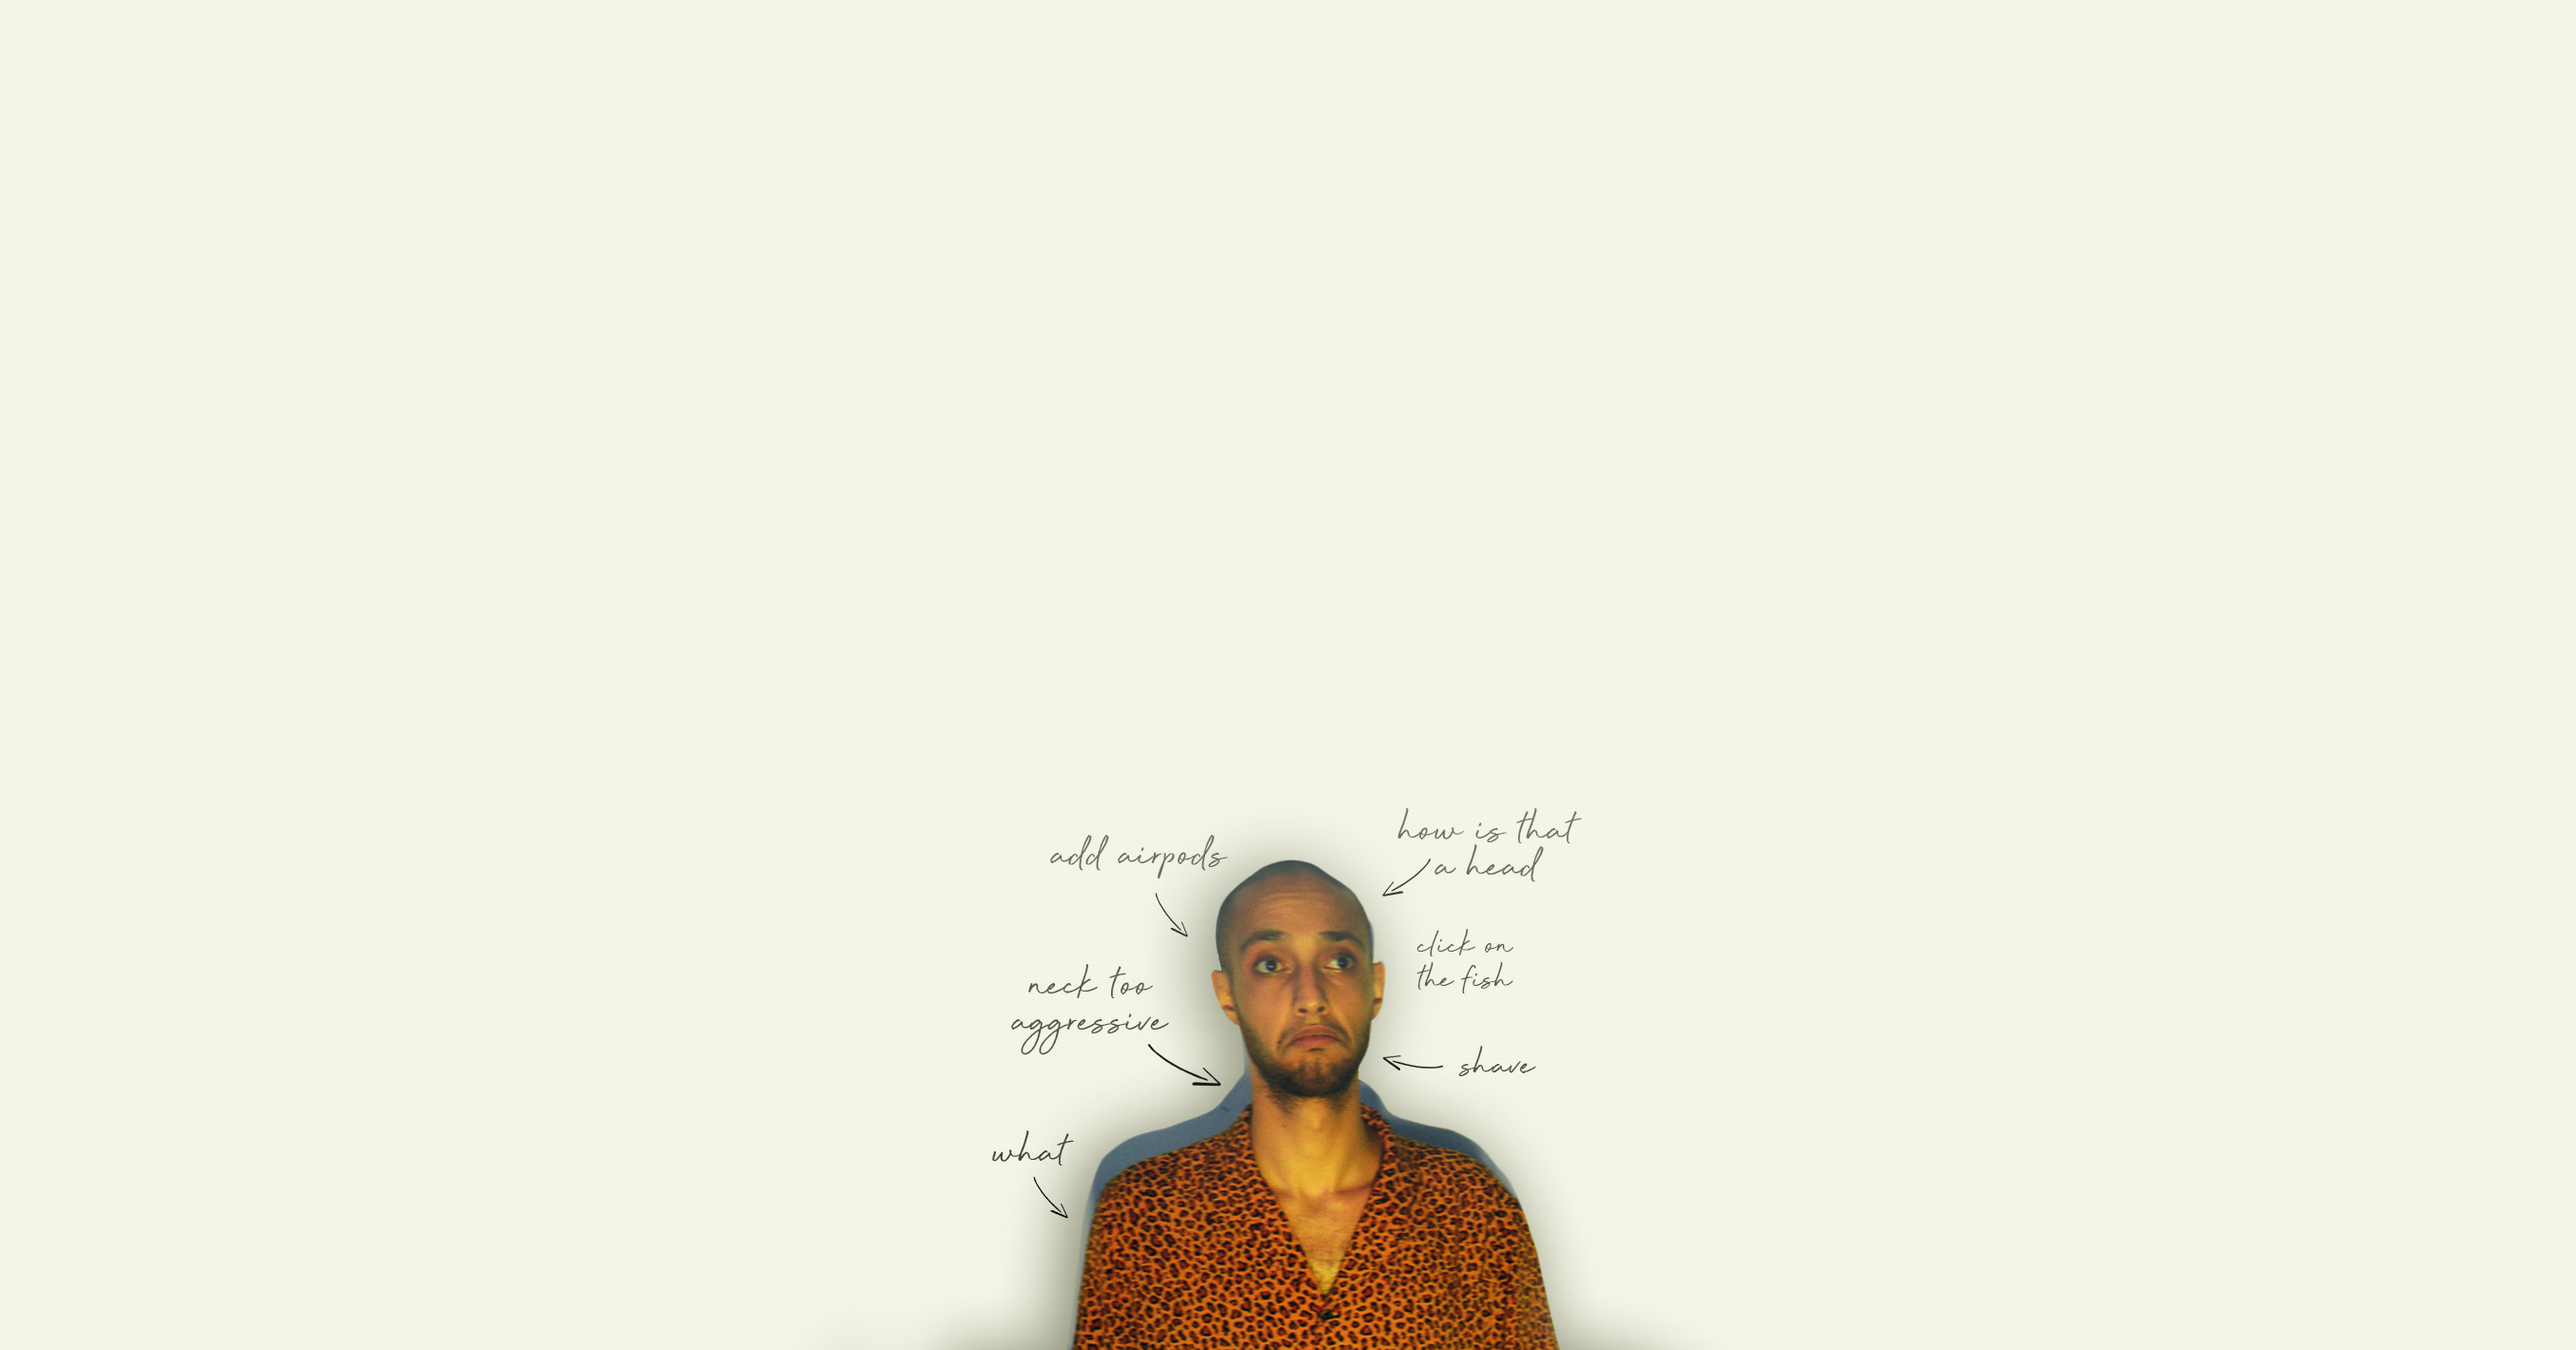
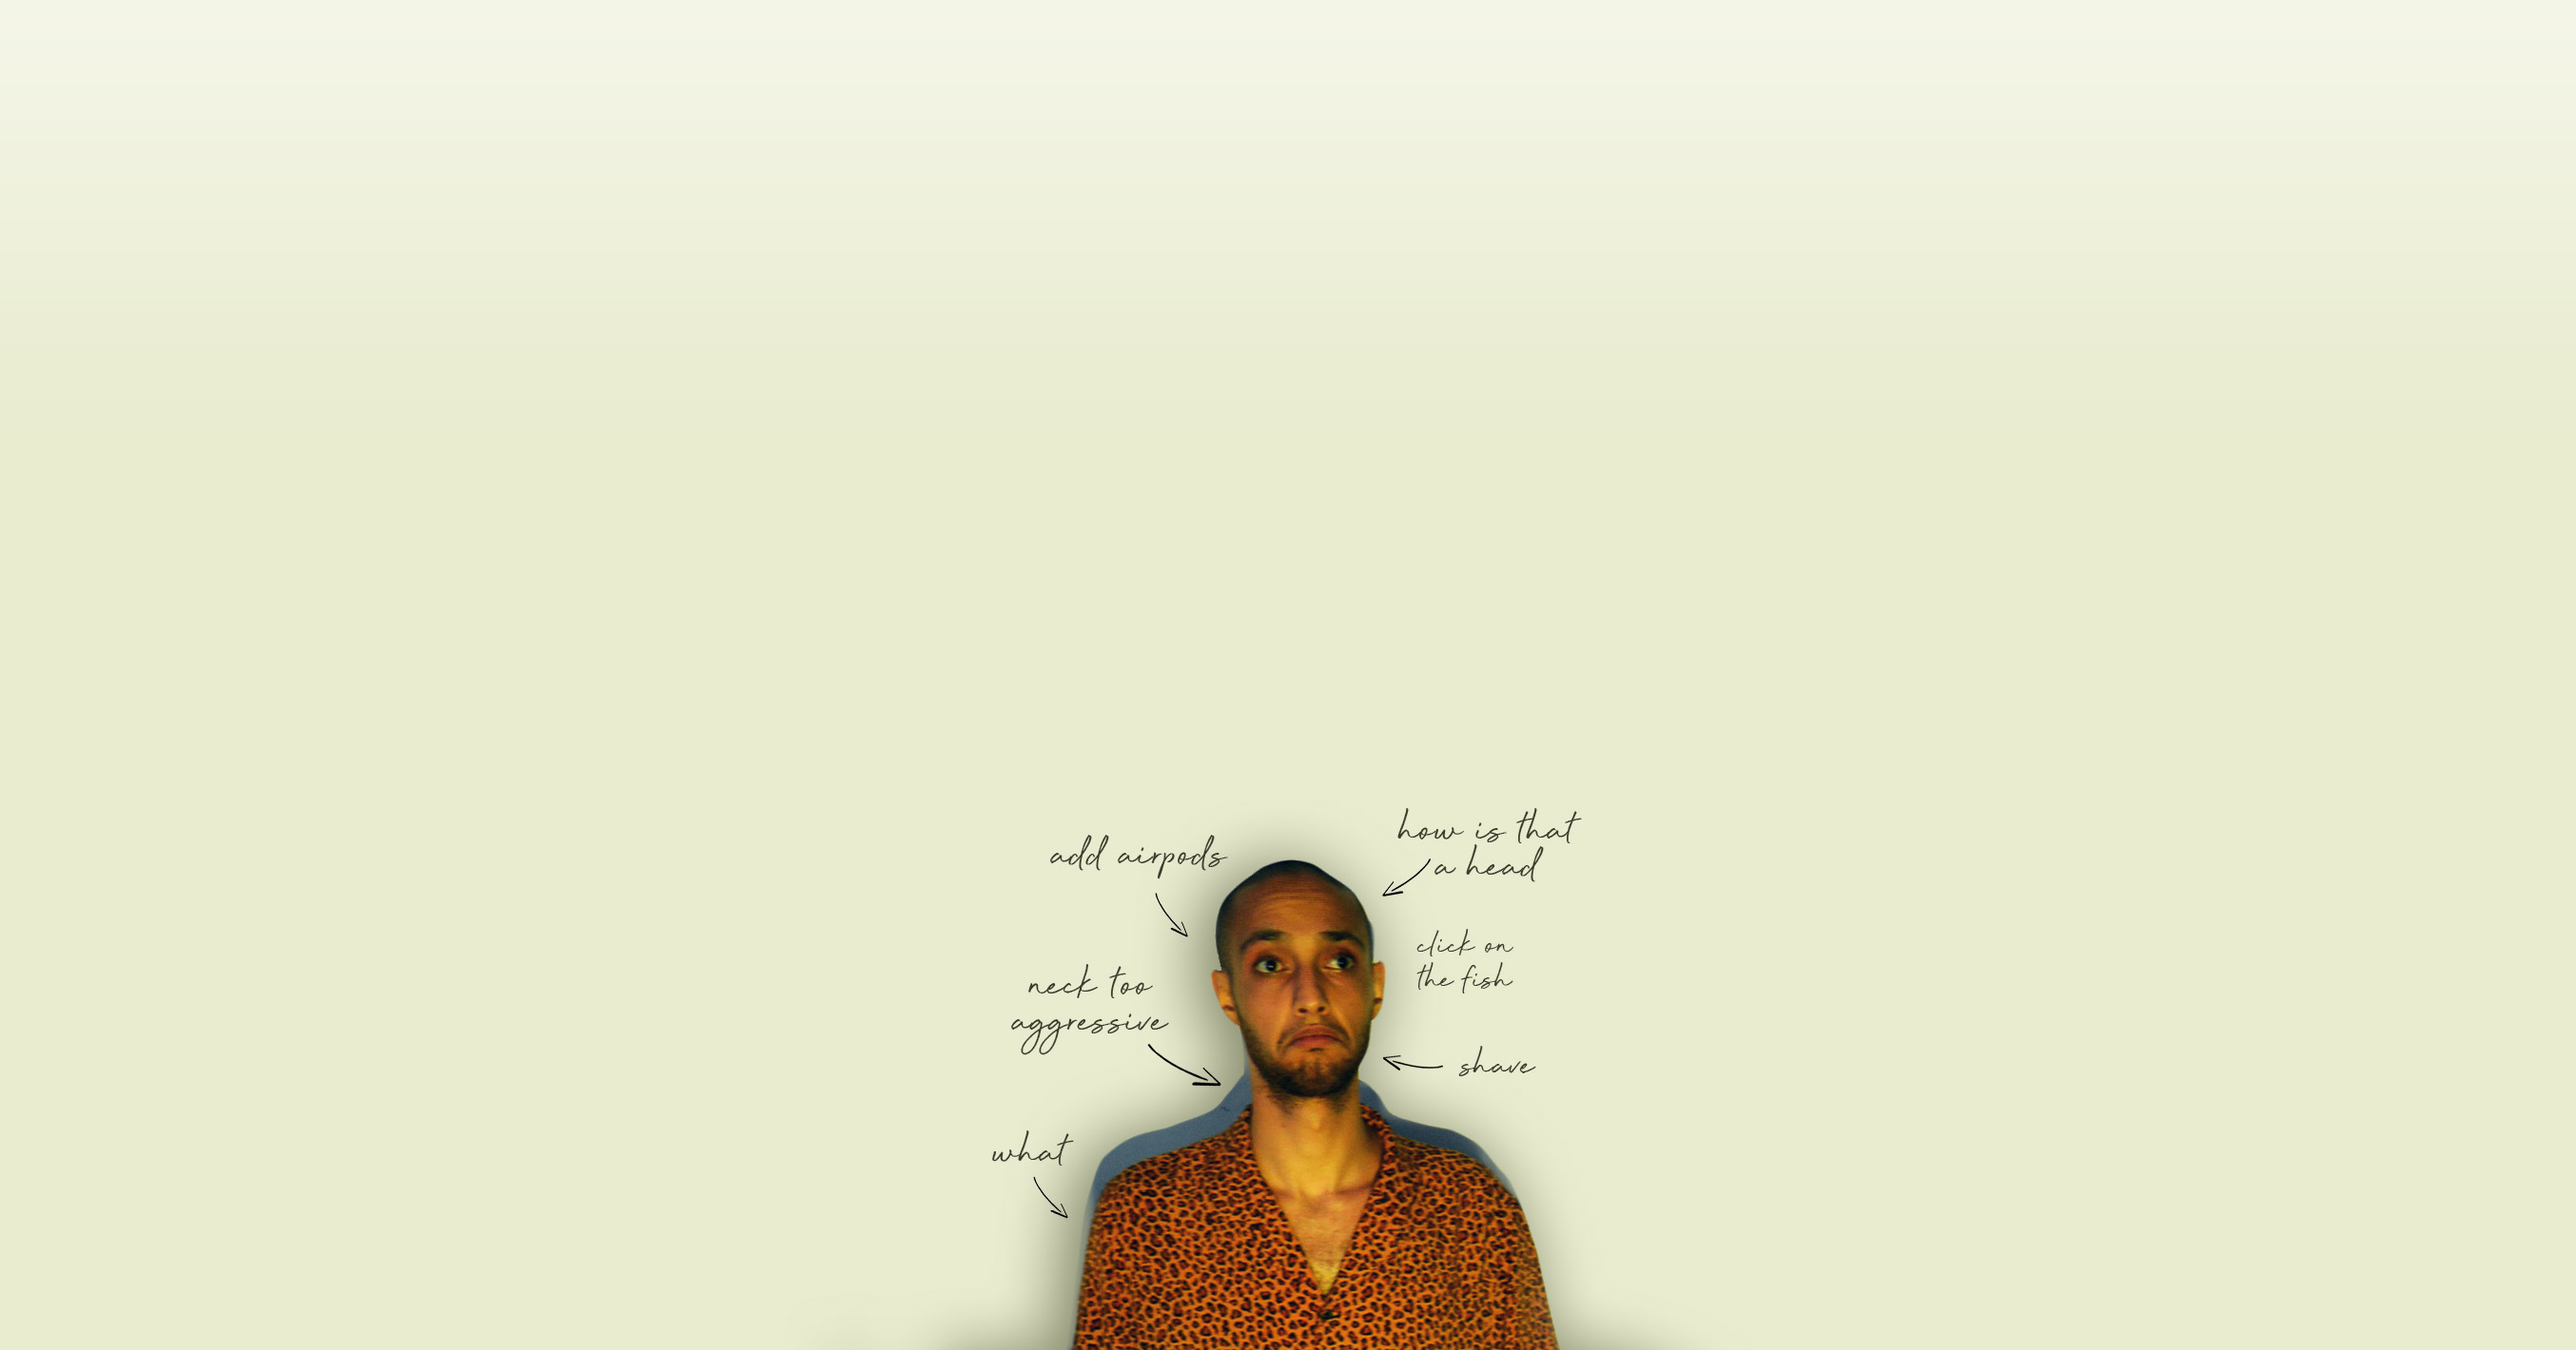
update

diff --git a/index.html b/index.html
@@ -39,7 +39,7 @@
     <link rel="stylesheet" href="/assets/plugins/animate.css/animate.min.css" />
     <link rel="stylesheet" href="/assets/plugins/slick-carousel/slick/slick.css" />
     <link rel="stylesheet" href="/assets/css/themify-icons.css" />
-    <link id="theme" rel="stylesheet" href="/assets/css/themes/theme-main.css?59" />
+    <link id="theme" rel="stylesheet" href="/assets/css/themes/theme-main.css?60" />
     <link rel="stylesheet" href="https://use.fontawesome.com/releases/v5.6.3/css/all.css" integrity="sha384-UHRtZLI+pbxtHCWp1t77Bi1L4ZtiqrqD80Kn4Z8NTSRyMA2Fd33n5dQ8lWUE00s/" crossorigin="anonymous">
 </head>
 
@@ -191,7 +191,7 @@
             </div>
         </section>
         <!-- Section - Contact -->
-        <section id="contact" class="section fullheight light light-grey" data-scheme="light" data-local-scroll>
+        <section id="contact" class="section fullheight light bg-contact-animated" data-scheme="light" data-local-scroll>
             <div class="bg-image-container mouse-parallax-item" data-parallax-speed="155"><img src="/assets/img/photos/bg/footer-bg.jpg" alt="" /></div>
             <div class="section-content">
                 <div class="container" data-local-scroll>

diff --git a/assets/css/themes/theme-main.css b/assets/css/themes/theme-main.css
@@ -4928,14 +4928,7 @@ html.locked-scrolling body {
 }
 
 .bg-contact-animated {
-    background: #292929;
-    background-size: 250% 100%;
-    background-position: 0% center;
-    -webkit-animation: gradientAnimation 20s ease infinite;
-    -moz-animation: gradientAnimation 20s ease infinite;
-    -ms-animation: gradientAnimation 20s ease infinite;
-    -o-animation: gradientAnimation 20s ease infinite;
-    animation: gradientAnimation 20s ease infinite;
+    background: #e8eccf;
 }
 
 .bg-dark-animated {
